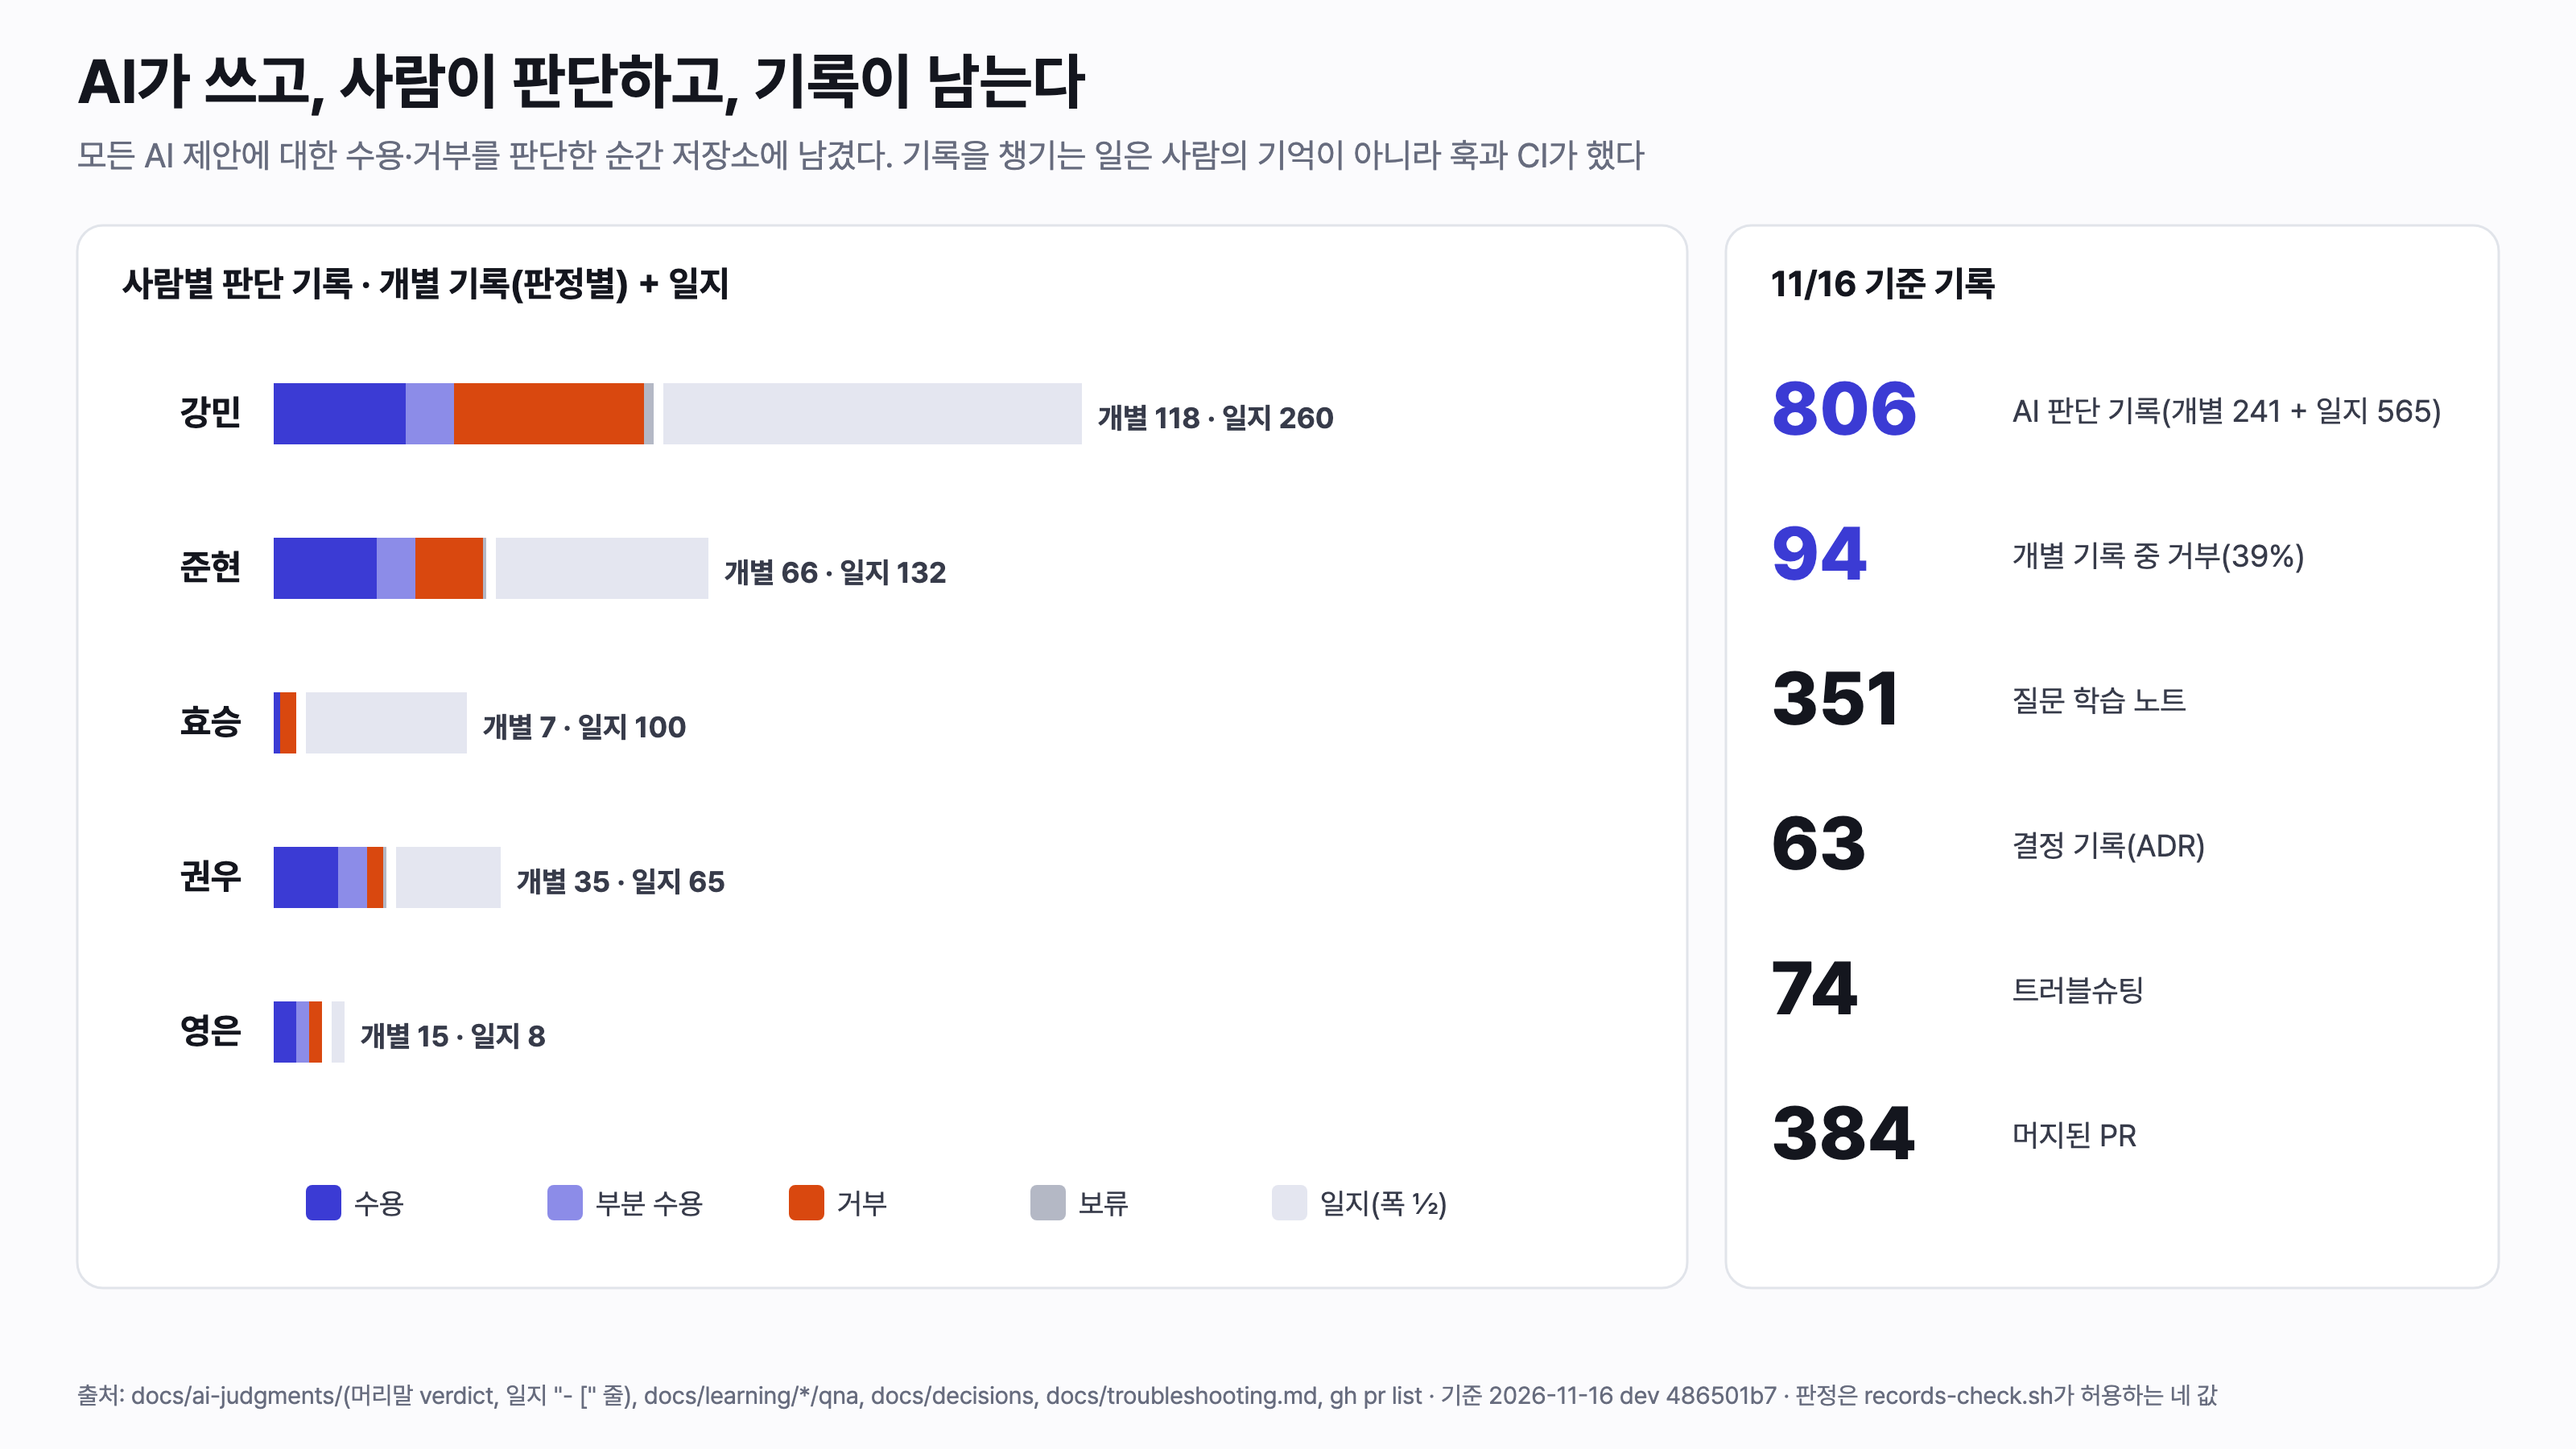
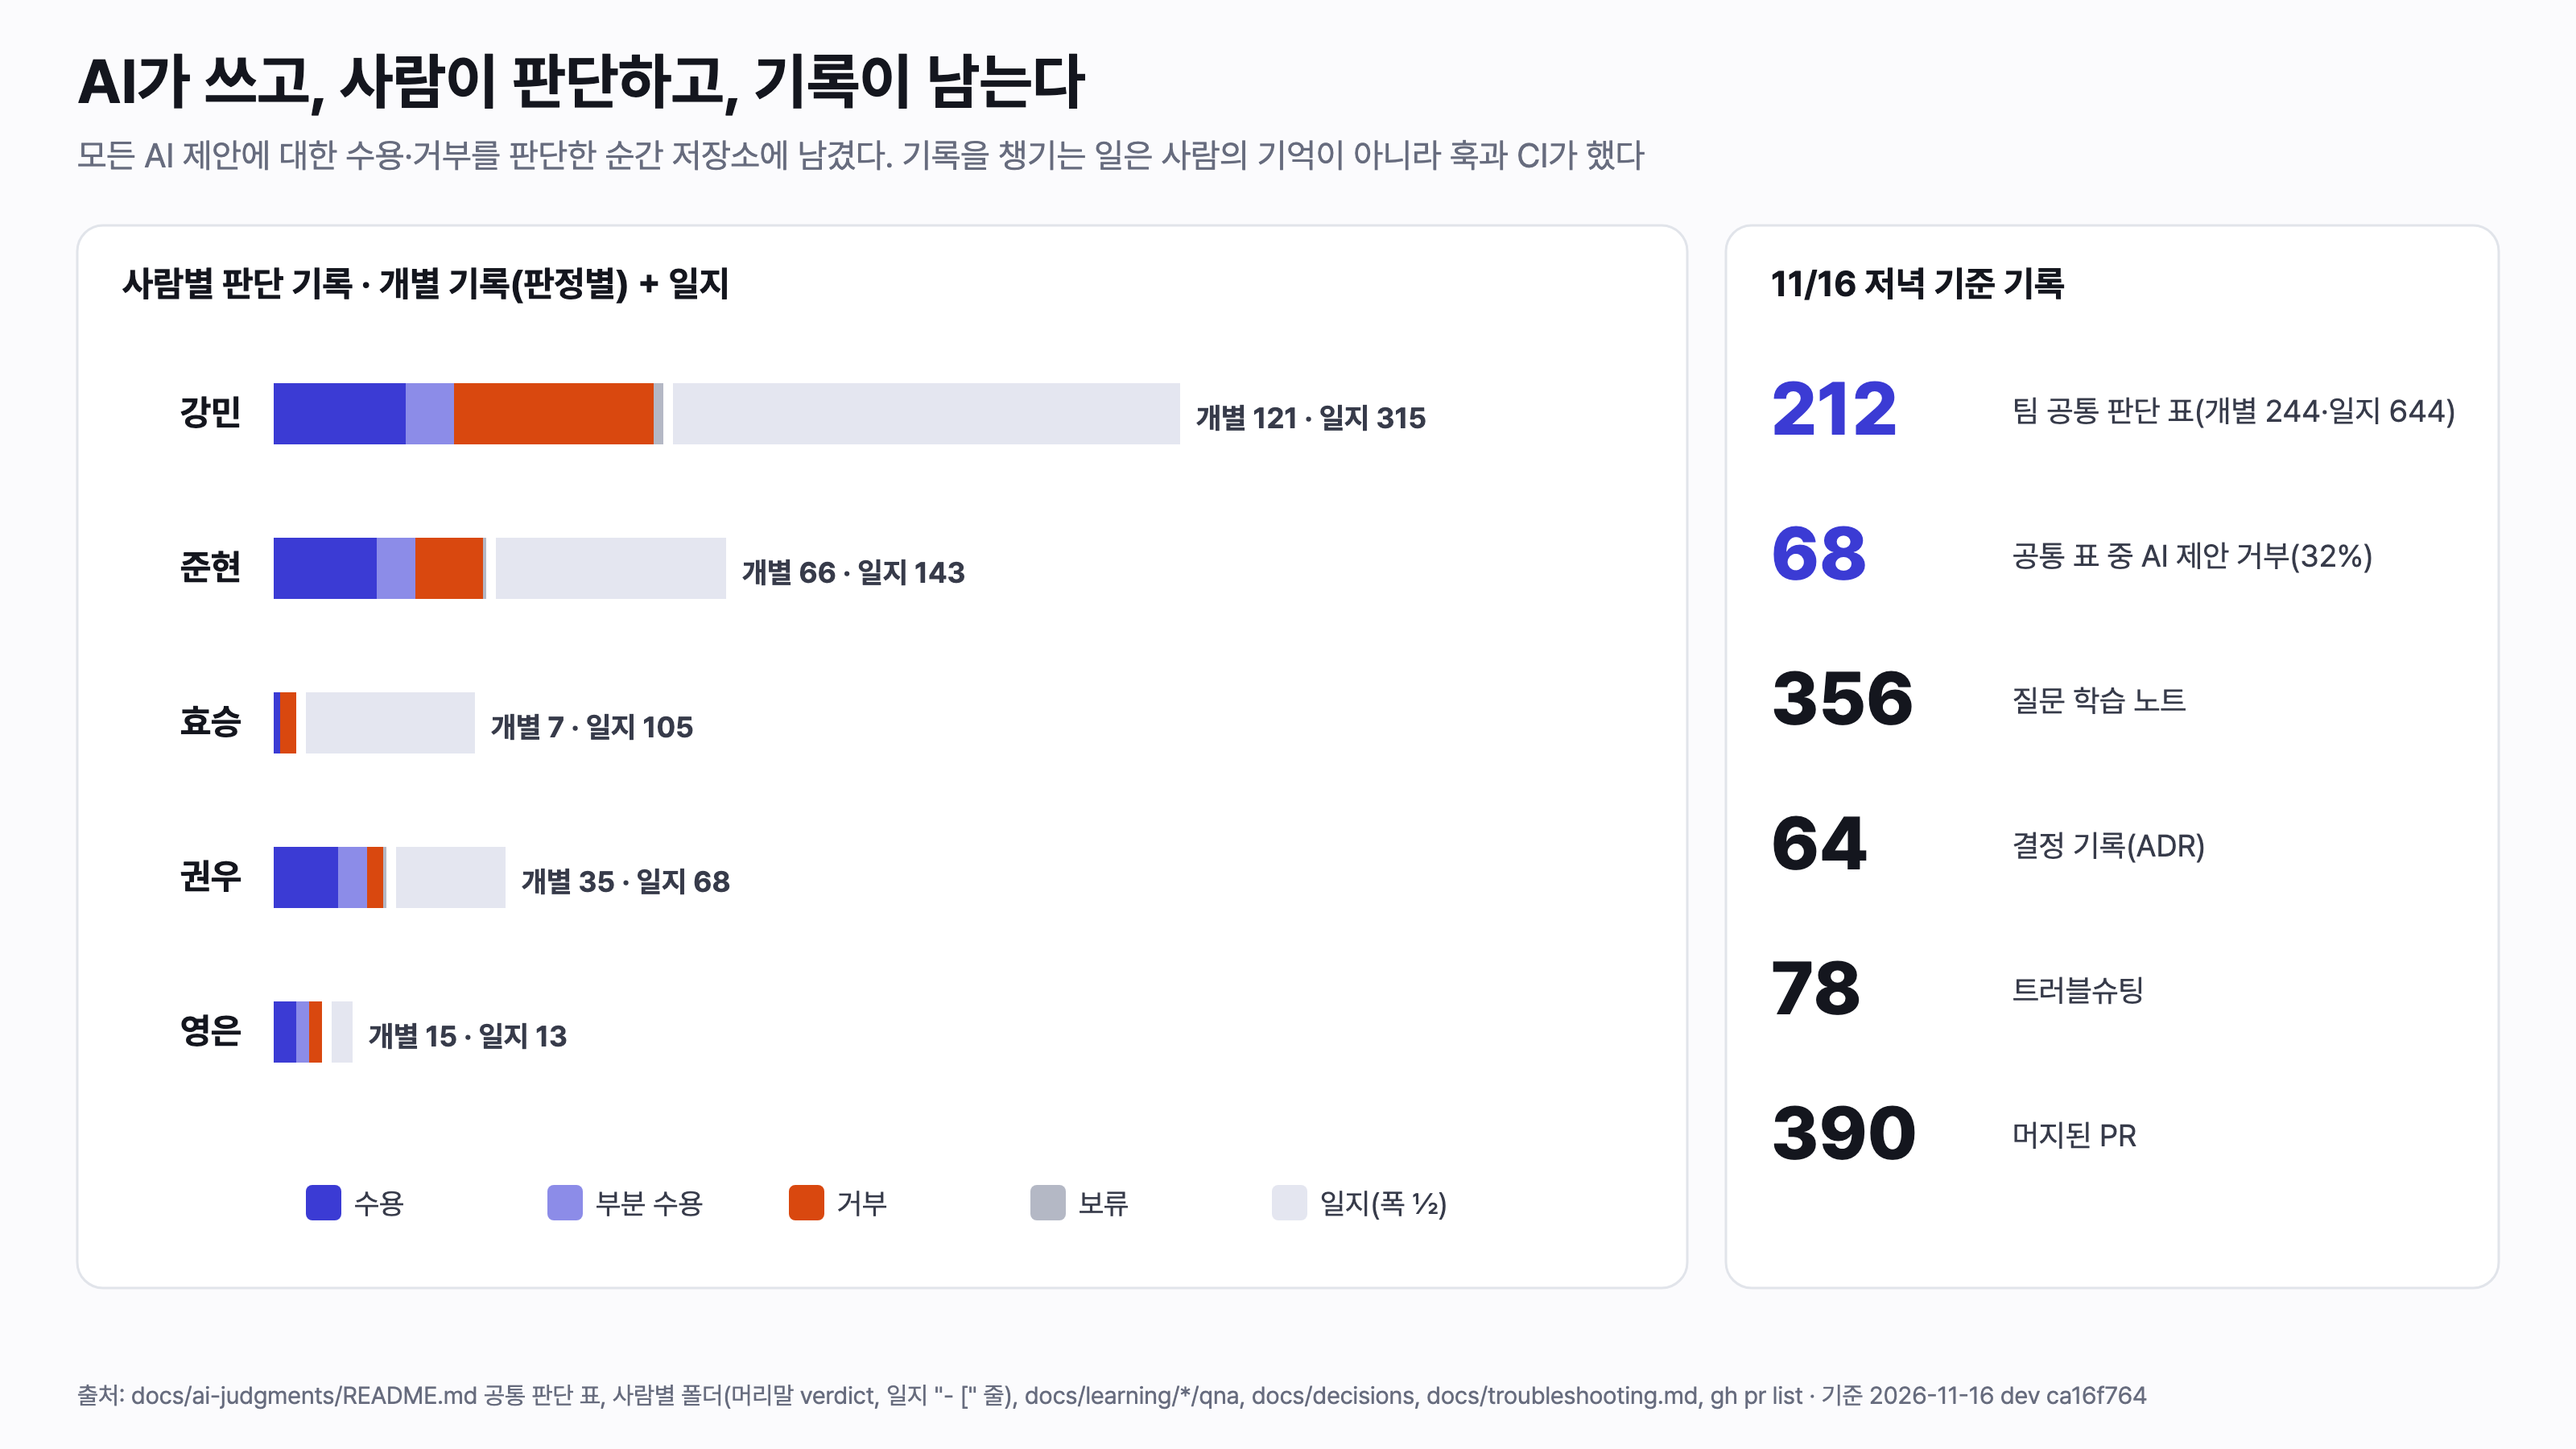
docs(presentation): 브로셔 AI 판단 그림을 11/16 저녁 숫자와 팀 공통 판단 표 기준으로 다시 그림 #ISE-280
브로셔 AI 숫자를 공통 판단 표(212건, 거부 68건) 기준으로 통일하기로 해서 오른쪽 숫자를 바꾸고, 사람별 개별 기록과 일지, ADR 64·트러블슈팅 78·PR 390을 dev ca16f764 기준으로 다시 셌다.

diff --git a/docs/presentation/performance/2026-11-16-brochure-charts.py b/docs/presentation/performance/2026-11-16-brochure-charts.py
@@ -148,11 +148,11 @@ if __name__ == '__main__':
     gateway(); seathold(); lottery(); synthetic(); payment_autoassign()
 
 
-# 6. AI 판단 기록(11/16 dev 486501b7 기준). 개별 기록은 머리말 verdict, 일지는 줄 수
+# 6. AI 판단 기록(11/16 dev ca16f764 기준). 개별 기록은 머리말 verdict, 일지는 줄 수
 def ai_judgments():
     people = [  # 이름, 수용, 부분, 거부, 보류, 일지 줄
-        ('강민', 41, 15, 59, 3, 260), ('준현', 32, 12, 21, 1, 132), ('효승', 2, 0, 5, 0, 100),
-        ('권우', 20, 9, 5, 1, 65), ('영은', 7, 4, 4, 0, 8)]
+        ('강민', 41, 15, 62, 3, 315), ('준현', 32, 12, 21, 1, 143), ('효승', 2, 0, 5, 0, 105),
+        ('권우', 20, 9, 5, 1, 68), ('영은', 7, 4, 4, 0, 13)]
     colors = [PRIMARY, '#8C8CE8', ORANGE, GRAY]
     body = panel(48, 140, 1000, 660, '사람별 판단 기록 · 개별 기록(판정별) + 일지')
     x0, y0, scale = 170, 230, 2.0
@@ -173,14 +173,14 @@ def ai_judgments():
     for lab, col in zip(('수용', '부분 수용', '거부', '보류', '일지(폭 ½)'), colors + ['#E4E6F0']):
         body += f'<rect x="{lx}" y="736" width="22" height="22" rx="4" fill="{col}"/>' + text(lx + 30, 754, lab, 18, BODY)
         lx += 150
-    body += panel(1072, 140, 480, 660, '11/16 기준 기록')
-    rows = [('806', 'AI 판단 기록(개별 241 + 일지 565)'), ('94', '개별 기록 중 거부(39%)'), ('351', '질문 학습 노트'),
-            ('63', '결정 기록(ADR)'), ('74', '트러블슈팅'), ('384', '머지된 PR')]
+    body += panel(1072, 140, 480, 660, '11/16 저녁 기준 기록')
+    rows = [('212', '팀 공통 판단 표(개별 244·일지 644)'), ('68', '공통 표 중 AI 제안 거부(32%)'), ('356', '질문 학습 노트'),
+            ('64', '결정 기록(ADR)'), ('78', '트러블슈팅'), ('390', '머지된 PR')]
     for i, (v, lab) in enumerate(rows):
         y = 250 + i * 90
         body += text(1100, y + 20, v, 46, PRIMARY if i < 2 else INK, 'start', 800)
         body += text(1250, y + 12, lab, 19, BODY)
-    src = '출처: docs/ai-judgments/(머리말 verdict, 일지 "- [" 줄), docs/learning/*/qna, docs/decisions, docs/troubleshooting.md, gh pr list · 기준 2026-11-16 dev 486501b7 · 판정은 records-check.sh가 허용하는 네 값'
+    src = '출처: docs/ai-judgments/README.md 공통 판단 표, 사람별 폴더(머리말 verdict, 일지 "- [" 줄), docs/learning/*/qna, docs/decisions, docs/troubleshooting.md, gh pr list · 기준 2026-11-16 dev ca16f764'
     save('2026-11-16-brochure-ai-judgments.svg', frame('AI가 쓰고, 사람이 판단하고, 기록이 남는다', '모든 AI 제안에 대한 수용·거부를 판단한 순간 저장소에 남겼다. 기록을 챙기는 일은 사람의 기억이 아니라 훅과 CI가 했다', src, body))
 
 
